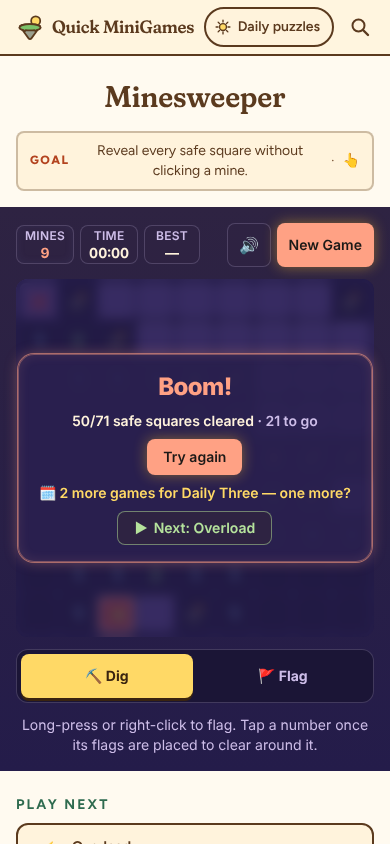
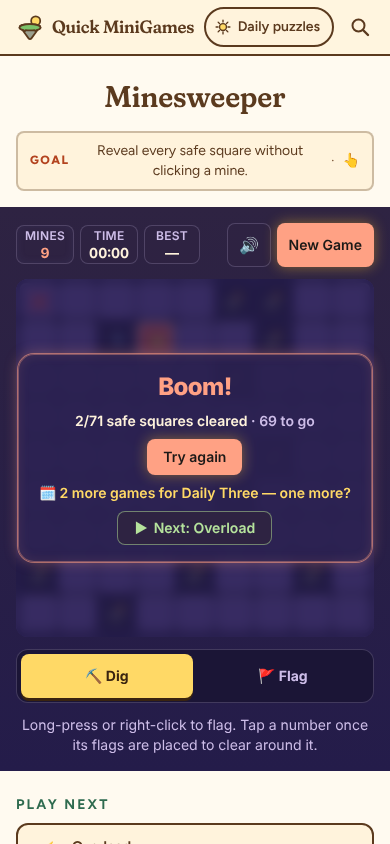
quality(minesweeper): 리뷰 반영 — 패배 결과 창 900ms 지연·승리 Mines 0·칸 aria-label 상태 (퀄리티팀 15시, 12→21)
- 패배 시 결과 창(흐림 덮개)을 900ms 늦게 띄워 💥·❌를 먼저 보여 준다(새 판·언마운트 시 타이머 정리)
- 이기면 Mines 0(판에 지뢰 자리 깃발이 다 보이므로)
- 칸 aria-label에 상태(hidden·flagged·숫자·empty·mine·wrong flag)
- 테스트: 지연 덮개(직후 없음 → 900ms 뒤 있음, 그 사이 새 판이면 안 뜸), 길게 누르기 뒤 contextmenu로 깃발 두 번 안 바뀜
- 캡처: after-390-lose(실제 화면, 덮개 포함)·after-390-lose-reveal(덮개 전) — 덮개를 숨긴 after-390-lose-board 삭제

Claude-Session: https://claude.ai/code/session_019f3RTxF6aohdVtSVGpygcz

diff --git a/src/components/games/GameMinesweeper.tsx b/src/components/games/GameMinesweeper.tsx
@@ -46,6 +46,8 @@ const LONG_PRESS_MS = 350
 const LONG_PRESS_SLOP = 10 // px
 // 진행 중 판에서 New Game을 한 번 누르면 'Restart?'로 바뀌고, 이 시간 안에 한 번 더 눌러야 판을 버린다(실수 방지).
 const RESTART_CONFIRM_MS = 3000
+// 패배 직후 결과 창을 늦게 띄운다 — 덮개(흐림)가 밟은 칸 💥·틀린 깃발 ❌을 가리기 전에 판을 보여 준다.
+const LOSE_OVERLAY_DELAY_MS = 900
 
 // 개인 베스트(클리어 시간, 낮을수록 좋음) 전용 키. 리더보드엔 넣지 않는다 —
 // 리더보드는 "높을수록 좋은 정수" 규약이라 시간(낮을수록 좋음)과 맞지 않는다.
@@ -77,6 +79,9 @@ export function GameMinesweeper() {
   const [prevBest, setPrevBest] = useState<number | null>(null)
   const [confirmRestart, setConfirmRestart] = useState(false)
   const confirmTimerRef = useRef<number | null>(null)
+  // 결과 창 표시(승리는 즉시, 패배는 LOSE_OVERLAY_DELAY_MS 뒤)
+  const [showOverlay, setShowOverlay] = useState(false)
+  const overlayTimerRef = useRef<number | null>(null)
   const elapsedRef = useRef(0)
   const bestRef = useRef<number | null>(null)
   const timerRef = useRef<number | null>(null)
@@ -130,15 +135,22 @@ export function GameMinesweeper() {
     setConfirmRestart(false)
   }, [])
 
+  const clearOverlayTimer = useCallback(() => {
+    if (overlayTimerRef.current !== null) window.clearTimeout(overlayTimerRef.current)
+    overlayTimerRef.current = null
+  }, [])
+
   const restart = useCallback(() => {
     clearConfirm()
+    clearOverlayTimer()
+    setShowOverlay(false)
     originRef.current = null
     stopTimer()
     elapsedRef.current = 0
     setElapsed(0)
     commit(newMinesweeper())
     setFlagMode(false)
-  }, [clearConfirm, commit, stopTimer])
+  }, [clearConfirm, clearOverlayTimer, commit, stopTimer])
 
   // 헤더 New Game: 진행 중(첫 칸을 연 뒤, 끝나기 전)이면 두 번 눌러야 판을 버린다. 시작 전·종료 후는 바로.
   const onNewGame = useCallback(() => {
@@ -162,6 +174,7 @@ export function GameMinesweeper() {
     return () => {
       stopTimer()
       if (confirmTimerRef.current !== null) window.clearTimeout(confirmTimerRef.current)
+      if (overlayTimerRef.current !== null) window.clearTimeout(overlayTimerRef.current)
     }
     // eslint-disable-next-line react-hooks/exhaustive-deps
   }, [])
@@ -200,9 +213,15 @@ export function GameMinesweeper() {
             return prev
           })
           play('win')
+          setShowOverlay(true)
         } else {
           play('lose')
           buzz(40)
+          clearOverlayTimer()
+          overlayTimerRef.current = window.setTimeout(() => {
+            overlayTimerRef.current = null
+            setShowOverlay(true)
+          }, LOSE_OVERLAY_DELAY_MS)
         }
         // 개인 기록: 완료 판수/승수 누적 → 게임 페이지 스탯 패널이 읽는다.
         recordResult('minesweeper', { won: next.won })
@@ -212,7 +231,7 @@ export function GameMinesweeper() {
       }
       commit(next)
     },
-    [buzz, clearConfirm, commit, play, startTimer, stopTimer],
+    [buzz, clearConfirm, clearOverlayTimer, commit, play, startTimer, stopTimer],
   )
 
   // 길게 누르기(터치·펜) → 깃발. 깃발이 꽂히면 뒤따르는 click(공개)은 버린다.
@@ -331,7 +350,8 @@ export function GameMinesweeper() {
       stats={[
         {
           label: 'Mines',
-          value: MS_MINES - flagCount(state),
+          // 이기면 판에 지뢰 자리 깃발이 다 보이므로 0
+          value: state.won ? 0 : MS_MINES - flagCount(state),
           testId: 'mines-left',
         },
       ]}
@@ -356,6 +376,19 @@ export function GameMinesweeper() {
             const face = cell.revealed ? 'r' : cell.flagged ? 'f' : 'e'
             const isExploded = !!exploded && exploded[0] === x && exploded[1] === y
             const wrongFlag = lost && cell.flagged && !cell.mine
+            // 스크린리더용 칸 상태: 'hidden' / 'flagged' / 'empty' / 숫자 / 'mine' / 'wrong flag'
+            const cellState =
+              (state.won && cell.mine) || (cell.flagged && !wrongFlag && !cell.revealed)
+                ? 'flagged'
+                : wrongFlag
+                  ? 'wrong flag'
+                  : !cell.revealed
+                    ? 'hidden'
+                    : cell.mine
+                      ? 'mine'
+                      : cell.adjacent > 0
+                        ? String(cell.adjacent)
+                        : 'empty'
 
             let content = ''
             let faceAnim = ''
@@ -387,7 +420,7 @@ export function GameMinesweeper() {
                 key={`${x},${y}`}
                 data-testid="ms-cell"
                 data-revealed={cell.revealed}
-                aria-label={`cell ${x + 1}, ${y + 1}`}
+                aria-label={`cell ${x + 1}, ${y + 1}: ${cellState}`}
                 onPointerDown={(e) => onCellPointerDown(e, x, y)}
                 onPointerMove={onCellPointerMove}
                 onPointerUp={cancelPress}
@@ -412,7 +445,7 @@ export function GameMinesweeper() {
           }),
         )}
         <GameOverlay
-          show={state.over}
+          show={state.over && showOverlay}
           variant={state.won ? 'win' : 'lose'}
           title={state.won ? 'You win!' : 'Boom!'}
           testId="game-over"

diff --git a/src/components/games/GameMinesweeper.test.tsx b/src/components/games/GameMinesweeper.test.tsx
@@ -37,8 +37,11 @@ describe('GameMinesweeper', () => {
     })
     fireEvent.pointerUp(cell, { pointerType: 'touch' })
     fireEvent.click(cell)
+    // Android는 길게 누르기에 contextmenu도 쏜다 — 깃발이 다시 뽑히면 안 된다
+    fireEvent.contextMenu(cell)
     expect(cell.textContent).toContain('🚩')
     expect(cell.getAttribute('data-revealed')).toBe('false')
+    expect(cell.getAttribute('aria-label')).toBe('cell 5, 5: flagged')
     expect(screen.getByTestId('mines-left').textContent).toBe('9')
   })
 
@@ -75,12 +78,36 @@ describe('GameMinesweeper', () => {
     expect(screen.getByRole('button', { name: 'New Game' })).toBeTruthy()
   })
 
-  it('패배: 밟은 칸 💥, 결과에 연 칸/남은 칸', async () => {
-    await mount()
+  it('패배 뒤 결과 창이 뜨기 전에 새 판을 시작하면 늦은 덮개가 새 판을 덮지 않는다', async () => {
+    vi.useFakeTimers()
+    render(<GameMinesweeper />)
+    await act(async () => {})
     fireEvent.click(cellAt(0, 0))
     fireEvent.click(cellAt(1, 1))
-    await screen.findByTestId('game-over')
+    fireEvent.click(screen.getByRole('button', { name: 'New Game' })) // 종료 후라 확인 없이 바로
+    act(() => {
+      vi.advanceTimersByTime(2000)
+    })
+    expect(screen.queryByTestId('game-over')).toBeNull()
+    expect(cellAt(0, 0).getAttribute('data-revealed')).toBe('false')
+  })
+
+  it('패배: 밟은 칸 💥이 먼저 보이고 결과 창은 늦게(연 칸/남은 칸)', async () => {
+    vi.useFakeTimers()
+    render(<GameMinesweeper />)
+    await act(async () => {})
+    fireEvent.click(cellAt(0, 0))
+    expect(cellAt(0, 0).getAttribute('aria-label')).toBe('cell 1, 1: 3')
+    expect(cellAt(4, 4).getAttribute('aria-label')).toBe('cell 5, 5: hidden')
+    fireEvent.click(cellAt(1, 1))
     expect(cellAt(1, 1).textContent).toContain('💥')
+    expect(cellAt(1, 1).getAttribute('aria-label')).toBe('cell 2, 2: mine')
+    // 패배 직후엔 덮개가 판을 가리지 않는다
+    expect(screen.queryByTestId('game-over')).toBeNull()
+    act(() => {
+      vi.advanceTimersByTime(900)
+    })
+    expect(screen.getByTestId('game-over')).toBeTruthy()
     expect(screen.getByTestId('ms-result').textContent).toMatch(/1\/71 safe squares cleared · 70 to go/)
     expect(loadStats('minesweeper')).toMatchObject({ plays: 1, wins: 0 })
   })
@@ -98,7 +125,9 @@ describe('GameMinesweeper', () => {
       fireEvent.contextMenu(cellAt(fx, fy))
     expect(screen.getByTestId('mines-left').textContent).toBe('6')
     fireEvent.click(cellAt(2, 1)) // 코드
-    await screen.findByTestId('game-over')
+    // 승리는 결과 창 즉시, Mines는 0(판에 지뢰 자리 깃발이 다 보인다)
+    expect(screen.getByTestId('game-over')).toBeTruthy()
+    expect(screen.getByTestId('mines-left').textContent).toBe('0')
     expect(screen.getByTestId('ms-result').textContent).toMatch(/Cleared in 00:00 · First clear!/)
     await waitFor(() => expect(localStorage.getItem('best:minesweeper:time')).toBe('0'))
     expect(loadStats('minesweeper')).toMatchObject({ plays: 1, wins: 1 })
